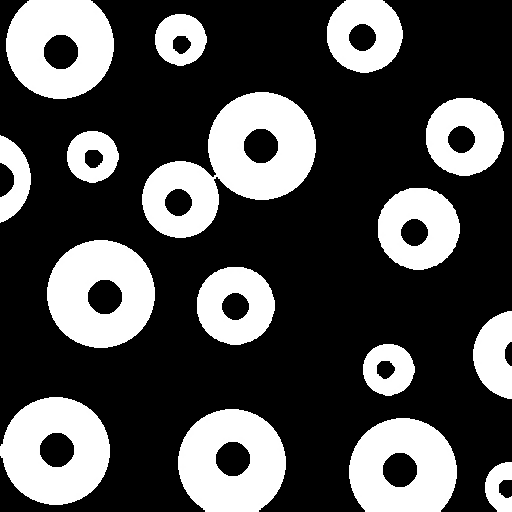
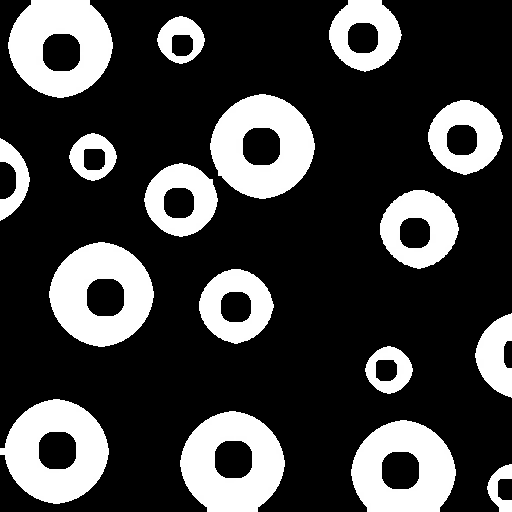
Experimenting with inbuilt structuring elements for image erosion

diff --git a/Lab 7/exercise7.7.m b/Lab 7/exercise7.7.m
@@ -1,0 +1,20 @@
+%Erode image with multiple inbuilt structuring elements
+
+BW = imread('quadrado.tif');
+subplot(2,2,1),imshow(BW), title('Original Image');
+
+SE1 = strel('square',11);
+SE2 = strel('diamond',11);
+SE3 = strel('disk',11,0);
+
+C = imerode(BW,SE1);
+imwrite(C,'erosion_square.png');
+subplot(2,2,2), imshow(C), title('Erosion - square element');
+
+D = imerode(BW,SE2);
+imwrite(D,'erosion_diamond.png');
+subplot(2,2,3), imshow(D), title('Erosion - diamond element');
+
+E = imerode(BW,SE3);
+imwrite(E,'erosion_disk.png');
+subplot(2,2,4), imshow(E), title('Erosion - disk element');

diff --git a/Lab 7/exercise7.6.m b/Lab 7/exercise7.6.m
@@ -1,0 +1,16 @@
+%Erode image with a cross as the structuring element
+
+BW1 = imread('circulos.tif');
+subplot(2,3,1), imshow(BW1), title('Original Image');
+
+BW2 = BW1;
+SE = ones(9,9);
+      
+for i = 1:5
+  C = imerode(BW2,SE);
+  name = ['Eroded image ', int2str(i)];
+  subplot(2,3,i+1), imshow(C), title(name);
+  name = [name, '.png'];
+  imwrite(C, name);
+  BW2 = C;
+  end
